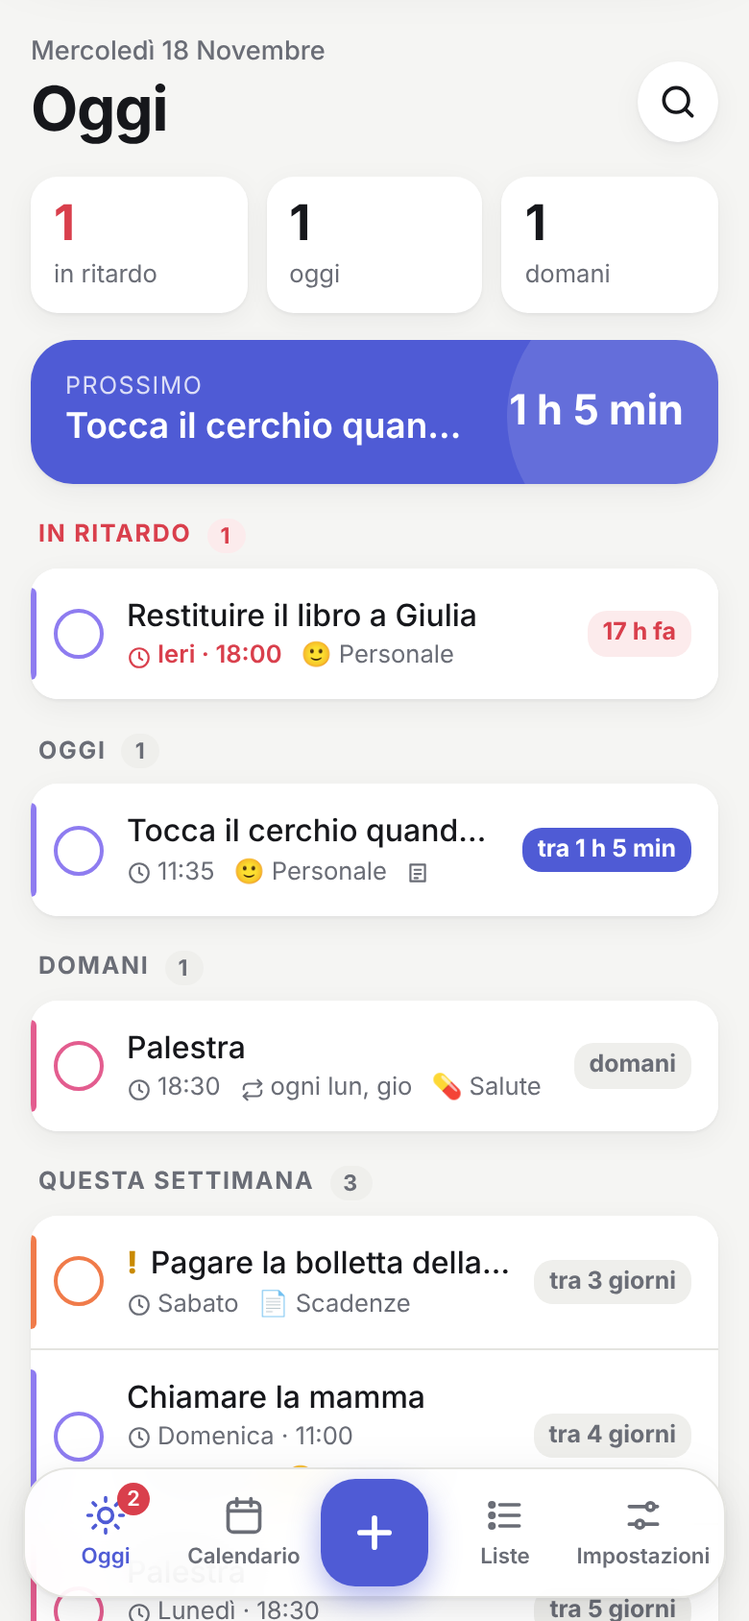
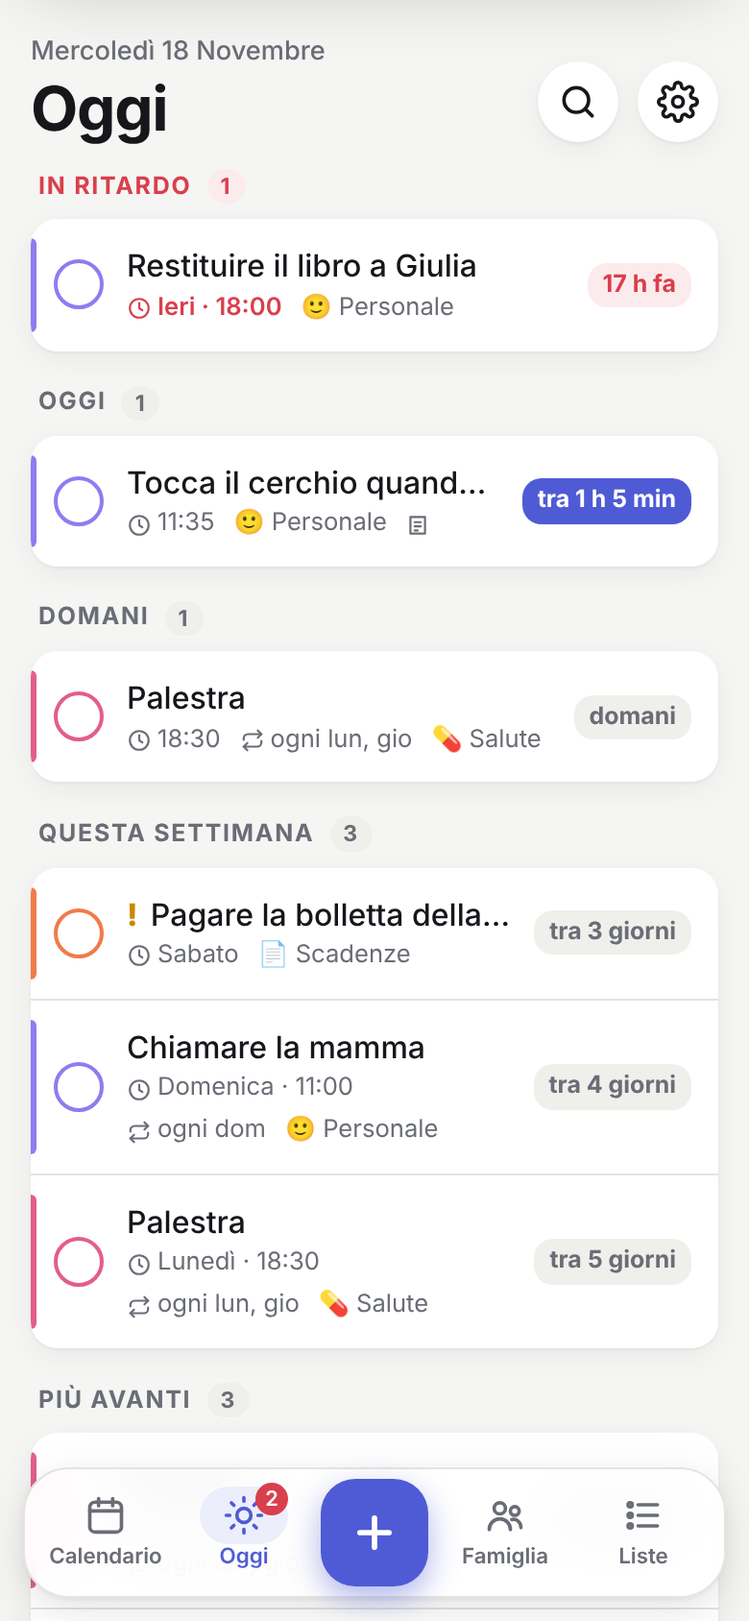
RicordaMi 0.4.0: schermate più semplici
- Oggi: solo la lista, senza contatori e riquadro Prossimo
- Nuovo promemoria: quello che ho capito in una frase (toccala per i dettagli),
  Quando e Con chi etichettati, tasto sempre in fondo alla finestra
- Con chi e Per chi in una riga sola
- Famiglia: nome del gruppo in testa, codice d'invito che si chiude,
  attività corta con Mostra tutto, la scheda si chiama sempre Famiglia
- Impostazioni con l'icona dell'ingranaggio

Claude-Session: https://claude.ai/code/session_01W491hd4LpHuBfb3EkiBoPd

diff --git a/ricordami/js/app.js b/ricordami/js/app.js
@@ -24,6 +24,7 @@ const iniziale = n => (n || '?').trim().charAt(0).toUpperCase();
 const avatar = (g, uid, cls = '') => { const m = famiglia.membro(g, uid); return `<span class="avatar ${cls}" style="background:var(--c-${m?.colore || 'lilla'})">${esc(iniziale(m?.nome))}</span>`; };
 let gruppoAperto = null; // gruppo mostrato nella scheda Famiglia
 let invitoMostrato = null; // { g, codice } ultimo codice creato
+let attivitaTutta = false; // "Attività" mostra solo le ultime finché non chiedi tutto
 
 /* ---------- utilità ---------- */
 const $ = id => document.getElementById(id);
@@ -147,7 +148,6 @@ function disegna() {
   $('btnImp').classList.toggle('nuovo', !!aggiornamento);
   const nAttesa = lista.filter(inAttesa).length;
   $('bollinoFam').hidden = !nAttesa; $('bollinoFam').textContent = nAttesa;
-  $('tabFamNome').textContent = famiglia.gruppi.length === 1 ? famiglia.gruppi[0].nome.slice(0, 12) : 'Famiglia';
   ({ 'v-oggi': vistaOggi, 'v-cal': vistaCalendario, 'v-fam': vistaFamiglia, 'v-liste': vistaListe, 'v-imp': vistaImpostazioni, 'v-cerca': vistaCerca })[vista]();
   aggiornaBollino();
 }
@@ -168,7 +168,7 @@ function riga(x, { mostraGiorno = false } = {}) {
   if (p.gruppo) {
     if (p.perChi?.length) meta.push(`<span class="pill per">per ${esc(p.perChi.map(u => nomeMembro(p.gruppo, u)).join(', '))}</span>`);
     if (!mio(p)) meta.push(`<span>da ${esc(p.autore?.nome || '?')}</span>`);
-    else if (!p.perChi?.length) meta.push(`<span>👪 ${esc(famiglia.gruppo(p.gruppo)?.nome || '')}</span>`);
+    else if (!p.perChi?.length && vista !== 'v-fam') meta.push(`<span>👪 ${esc(famiglia.gruppo(p.gruppo)?.nome || '')}</span>`); // in Famiglia si sa già
     if (p.tipo === 'domanda') {
       const r = p.risposte || [];
       if (inAttesa(p)) meta.push('<span class="pill attesa">Rispondi tu</span>');
@@ -209,14 +209,7 @@ function vistaOggi() {
   const settimana = primaPerVoce(ag.filter(x => x.occ > dom && x.occ <= piuGiorni(o, 7) && !x.fatto));
   const avanti = primaPerVoce(ag.filter(x => x.occ > piuGiorni(o, 7) && !x.fatto));
   const libere = lista.filter(p => !p.data && !p.fatto && p.tipo !== 'domanda').sort((a, b) => (b.priorita || 0) - (a.priorita || 0) || b.creato - a.creato).map(senzaData);
-  const restaOggi = dOggi.filter(x => !x.fatto);
-  const prox = ag.find(x => !x.fatto && x.scad > ora && x.scad - ora < 7 * 864e5);
-
-  let h = `${cartaAggiornamento()}<div class="riassunto">
-    <button class="stat ${ritardo.length ? 'ritardo' : 'zero'}" data-salta="g-ritardo"><b>${ritardo.length}</b><span>in ritardo</span></button>
-    <button class="stat ${restaOggi.length ? '' : 'zero'}" data-salta="g-oggi"><b>${restaOggi.length}</b><span>oggi</span></button>
-    <button class="stat ${dDomani.length ? '' : 'zero'}" data-salta="g-domani"><b>${dDomani.length}</b><span>domani</span></button></div>`;
-  if (prox) h += `<button class="prossimo" data-id="${esc(prox.p.id)}" data-occ="${prox.occ}"><div><small>Prossimo</small><strong>${esc(prox.p.titolo)}</strong></div><span class="conto-grande">${conto(prox.scad).replace('tra ', '')}</span></button>`;
+  let h = cartaAggiornamento();
   const tutto = ritardo.length + dOggi.length + dDomani.length + settimana.length + avanti.length + libere.length;
   if (!tutto) h += vuoto('Niente da ricordare', 'Tocca + e scrivi come parli: "domani alle 9 chiamare Marco".');
   h += `<div id="g-ritardo">${gruppo('In ritardo', ritardo.map(x => riga(x)), 'ritardo')}</div>`;
@@ -227,10 +220,7 @@ function vistaOggi() {
   h += gruppo('Quando capita', libere.map(x => riga(x)));
   $('v-oggi').innerHTML = h;
   collegaCartaAggiornamento();
-  $('v-oggi').querySelectorAll('[data-salta]').forEach(b => b.onclick = () => $(b.dataset.salta)?.scrollIntoView({ behavior: 'smooth', block: 'start' }));
   $('v-oggi').querySelectorAll('[data-vai]').forEach(b => b.onclick = () => vaiA(b.dataset.vai));
-  const pb = $('v-oggi').querySelector('.prossimo');
-  if (pb) pb.onclick = () => apriScheda(lista.find(p => p.id === pb.dataset.id));
 }
 
 function vistaCalendario() {
@@ -417,25 +407,31 @@ function vistaFamiglia() {
   const prossimi = primaPerVoce(agenda(delGruppo.filter(p => p.tipo !== 'domanda'), o, piuGiorni(o, 30), cfg).filter(x => !x.fatto)).slice(0, 8);
   const daFare = delGruppo.filter(p => !p.data && !p.fatto && p.tipo !== 'domanda').map(senzaData);
   const fa = t => { const m = Math.round((adesso() - t) / 60000); return m < 1 ? 'adesso' : m < 60 ? `${m} min fa` : m < 1440 ? `${Math.round(m / 60)} h fa` : giornoBreve(dataNelFuso(t, cfg.fuso)); };
-  const eventi = famiglia.eventi.filter(e => e.gruppo === g.id).slice(-15).reverse();
+  const tuttiEventi = famiglia.eventi.filter(e => e.gruppo === g.id).slice(-30).reverse();
+  const eventi = attivitaTutta ? tuttiEventi : tuttiEventi.slice(0, 4);
   el.innerHTML = `
-    ${gruppi.length > 1 ? `<div class="chips" style="margin-bottom:12px">${gruppi.map(x => `<button class="chip ${x.id === g.id ? 'sel' : ''}" data-g="${esc(x.id)}">${esc(x.nome)}</button>`).join('')}</div>` : ''}
+    ${gruppi.length > 1 ? `<div class="chips" style="margin-bottom:12px">${gruppi.map(x => `<button class="chip ${x.id === g.id ? 'sel' : ''}" data-g="${esc(x.id)}">${esc(x.nome)}</button>`).join('')}</div>` : `<p class="fam-nome">👪 ${esc(g.nome)} · ${g.membri.length === 1 ? 'solo tu, per ora' : g.membri.length + ' persone'}</p>`}
     <div class="membri-riga">${g.membri.map(m => `<div class="membro">${avatar(g.id, m.id)}<span>${esc(m.id === ioId() ? 'Tu' : m.nome)}</span></div>`).join('')}
       <button class="membro invita" id="fInvita"><span class="avatar">+</span><span>Invita</span></button></div>
-    <div id="fInvito">${invitoMostrato?.g === g.id ? `<div class="scheda-fam"><h3>Codice d'invito</h3><div class="codice-grande">${invitoMostrato.codice}</div><p style="text-align:center;margin:0">Vale 7 giorni. Chi lo riceve apre ${MARCHIO.nome} › Famiglia › Entra con un codice.</p><button class="btn primario largo" id="fCondividiInvito">Condividi</button></div>` : ''}</div>
+    <div id="fInvito">${invitoMostrato?.g === g.id ? `<div class="scheda-fam"><h3>Codice d'invito</h3><div class="codice-grande">${invitoMostrato.codice}</div><p style="text-align:center;margin:0">Vale 7 giorni. Chi lo riceve apre ${MARCHIO.nome} › Famiglia › Entra con un codice.</p><div class="riga-campi"><button class="btn" id="fChiudiInvito" style="flex:0 0 auto">Chiudi</button><button class="btn primario" id="fCondividiInvito">Condividi il codice</button></div></div>` : ''}</div>
     ${gruppo('Rispondi tu', attesa.map(p => riga(senzaData(p))), 'ritardo')}
     ${gruppo('Domande', altre.map(p => riga(senzaData(p))))}
     ${gruppo('In programma insieme', prossimi.map(x => riga(x, { mostraGiorno: true })))}
     ${gruppo('Da fare insieme', daFare.map(x => riga(x)))}
     ${!domande.length && !prossimi.length && !daFare.length ? vuoto('Ancora niente in comune', 'Tocca + e scegli "Con chi": ' + esc(g.nome) + '. Con un punto di domanda diventa una domanda.') : ''}
-    ${eventi.length ? `<div class="gruppo"><div class="gruppo-titolo">Attività</div><div class="lista-righe feed">${eventi.map(e => { const f = fraseEvento(e, ioId()); return `<div class="ev">${avatar(g.id, e.da, 'piccolo')}<div><b>${esc(f.titolo)}</b> ${esc(f.corpo)}<small>${fa(e.creato)}</small></div></div>`; }).join('')}</div></div>` : ''}
+    ${eventi.length ? `<div class="gruppo"><div class="gruppo-titolo">Attività</div><div class="lista-righe feed">${eventi.map(e => { const f = fraseEvento(e, ioId()); return `<div class="ev">${avatar(g.id, e.da, 'piccolo')}<div><b>${esc(f.titolo)}</b> ${esc(f.corpo)}<small>${fa(e.creato)}</small></div></div>`; }).join('')}</div>${tuttiEventi.length > eventi.length ? '<button class="altro-btn" id="fAttivitaTutta">Mostra tutta l\'attività</button>' : ''}</div>` : ''}
     <div class="chips" style="justify-content:center;margin-top:8px"><button class="chip" id="fAltro">+ Altra famiglia o gruppo</button><button class="chip" id="fRinomina">Rinomina</button><button class="chip" id="fEsci">Esci dal gruppo</button></div>`;
   el.querySelectorAll('[data-g]').forEach(b => b.onclick = () => { gruppoAperto = b.dataset.g; vistaFamiglia(); });
   $('fInvita').onclick = () => azioneFam(async () => {
     const { codice } = await famiglia.invita(g.id);
     invitoMostrato = { g: g.id, codice };
   });
-  if ($('fCondividiInvito')) $('fCondividiInvito').onclick = () => condividiTesto(`Entra nella famiglia "${g.nome}" su ${MARCHIO.nome} con il codice ${invitoMostrato.codice}`);
+  if ($('fCondividiInvito')) $('fCondividiInvito').onclick = async () => {
+    try { await condividiTesto(`Entra nella famiglia "${g.nome}" su ${MARCHIO.nome} con il codice ${invitoMostrato.codice}`); } catch { return; }
+    invitoMostrato = null; vistaFamiglia(); // condiviso: il codice non serve più sullo schermo
+  };
+  if ($('fChiudiInvito')) $('fChiudiInvito').onclick = () => { invitoMostrato = null; vistaFamiglia(); };
+  if ($('fAttivitaTutta')) $('fAttivitaTutta').onclick = () => { attivitaTutta = true; vistaFamiglia(); };
   $('fAltro').onclick = () => { gruppoAperto = 'nuovo'; vistaFamiglia(); };
   $('fRinomina').onclick = () => azioneFam(async () => { const n = prompt('Nuovo nome del gruppo', g.nome)?.trim(); if (n) await famiglia.rinominaGruppo(g.id, n); });
   $('fEsci').onclick = () => azioneFam(async () => { if (!confirm(`Uscire da "${g.nome}"? Non vedrai più le sue voci.`)) return; await famiglia.esci(g.id); gruppoAperto = null; toast('Sei uscito dal gruppo'); });
@@ -799,37 +795,38 @@ function aggiornaScheda() {
   const v = s.v;
   $('sSalva').disabled = !$('sTesto').value.trim();
   // cosa ho capito
+  // cosa ho capito, in una frase sola (avvisi, gruppo e tipo si vedono già nei loro campi)
   const c = [];
-  if (v.data) c.push(`<span>📅 ${giornoBreve(v.data)}</span>`);
-  if (v.ora) c.push(`<span>🕘 ${v.ora}</span>`);
+  if (v.data) c.push(`<span>📅 ${giornoBreve(v.data)}${v.ora ? ' alle ' + v.ora : ''}</span>`);
+  else if (v.ora) c.push(`<span>🕘 ${v.ora}</span>`);
   if (v.ripeti) c.push(`<span>🔁 ${descriviRipeti(v.ripeti, v.data || oggiIso())}</span>`);
-  if (v.priorita) c.push(`<span class="urg">${v.priorita === 2 ? '‼ Urgente' : '❗ Importante'}</span>`);
   if (v.lista && listaDi(v.lista)) c.push(`<span>${listaDi(v.lista).emoji} ${esc(listaDi(v.lista).nome)}</span>`);
   if (v.listaNuova) c.push(`<span>✨ nuova lista "${esc(v.listaNuova)}"</span>`);
-  if (v.data && v.avvisi.length && v.tipo !== 'domanda') c.push(`<span>🔔 ${v.avvisi.length === 1 ? (v.avvisi[0] ? durata(v.avvisi[0]) + ' prima' : 'al momento') : v.avvisi.length + ' avvisi'}</span>`);
-  if (v.data && v.insisti && v.tipo !== 'domanda') c.push(`<span>📣 insiste</span>`);
-  if (v.gruppo) c.push(`<span>👪 ${esc(famiglia.gruppo(v.gruppo)?.nome || '')}${v.perChi.length ? ' · per ' + esc(v.perChi.map(u => nomeMembro(v.gruppo, u)).join(', ')) : ''}</span>`);
-  if (v.tipo === 'domanda') c.push('<span>💬 Domanda</span>');
+  if (v.priorita) c.push(`<span class="urg">${v.priorita === 2 ? '‼ Urgente' : '❗ Importante'}</span>`);
   if (!s.id) $('sSalva').textContent = v.tipo === 'domanda' && v.gruppo ? 'Chiedi' : v.gruppo ? 'Condividi' : 'Ricordamelo';
   // condivisione
   const gruppi = famiglia.attivo ? famiglia.gruppi : [];
   $('sCondividi').hidden = !gruppi.length;
   if (gruppi.length) {
-    $('sGruppo').innerHTML = `<button class="chip ${!v.gruppo ? 'sel' : ''}" data-g="">Solo io</button>` + gruppi.map(g => `<button class="chip ${v.gruppo === g.id ? 'sel' : ''}" data-g="${esc(g.id)}">👪 ${esc(g.nome)}</button>`).join('');
-    $('sGruppo').querySelectorAll('button').forEach(b => b.onclick = () => { v.gruppo = b.dataset.g; v.perChi = []; if (!s.scelto.tipo) v.tipo = v.gruppo && $('sTesto').value.includes('?') ? 'domanda' : 'promemoria'; aggiornaScheda(); });
+    // Una riga sola: "Solo io · 👪 Casa Rossi · Bruno · Carla". Il gruppo è per tutti, una persona è "per lei".
+    $('sGruppo').innerHTML = `<button class="chip ${!v.gruppo ? 'sel' : ''}" data-g="">Solo io</button>` + gruppi.map(g =>
+      `<button class="chip ${v.gruppo === g.id && !v.perChi.length ? 'sel' : ''}" data-g="${esc(g.id)}">👪 ${esc(g.nome)}</button>` +
+      g.membri.filter(m => m.id !== ioId()).map(m => `<button class="chip persona ${v.gruppo === g.id && v.perChi.includes(m.id) ? 'sel' : ''}" data-g="${esc(g.id)}" data-u="${esc(m.id)}">${esc(m.nome)}</button>`).join('')).join('');
+    $('sGruppo').querySelectorAll('button').forEach(b => b.onclick = () => {
+      const gid = b.dataset.g, u = b.dataset.u;
+      if (!u) { v.gruppo = gid; v.perChi = []; }
+      else {
+        const set = new Set(v.gruppo === gid ? v.perChi : []);
+        set.has(u) ? set.delete(u) : set.add(u);
+        v.gruppo = gid; v.perChi = [...set];
+      }
+      if (!s.scelto.tipo) v.tipo = v.gruppo && $('sTesto').value.includes('?') ? 'domanda' : 'promemoria';
+      aggiornaScheda();
+    });
     $('sCondivisoCampi').hidden = !v.gruppo;
-    const g = famiglia.gruppo(v.gruppo);
-    if (g) {
-      $('sPerChi').innerHTML = `<button class="chip ${!v.perChi.length ? 'sel' : ''}" data-u="">Tutti</button>` + g.membri.map(m => `<button class="chip ${v.perChi.includes(m.id) ? 'sel' : ''}" data-u="${esc(m.id)}">${esc(m.id === ioId() ? 'Io' : m.nome)}</button>`).join('');
-      $('sPerChi').querySelectorAll('button').forEach(b => b.onclick = () => {
-        const u = b.dataset.u, set = new Set(v.perChi);
-        if (!u) set.clear(); else set.has(u) ? set.delete(u) : set.add(u);
-        v.perChi = set.size === g.membri.length ? [] : [...set]; aggiornaScheda();
-      });
-      $('sTipo').querySelectorAll('button').forEach(b => { b.classList.toggle('sel', b.dataset.t === v.tipo); b.onclick = () => { s.scelto.tipo = 1; v.tipo = b.dataset.t; aggiornaScheda(); }; });
-    }
+    $('sTipo').querySelectorAll('button').forEach(b => { b.classList.toggle('sel', b.dataset.t === v.tipo); b.onclick = () => { s.scelto.tipo = 1; v.tipo = b.dataset.t; aggiornaScheda(); }; });
   }
-  $('sCapito').innerHTML = c.join('') || `<span class="vuoto-capito">${$('sTesto').value ? 'Senza data: lo trovi in "Quando capita"' : 'Scrivi come parli: "domani alle 9 chiamare Marco"'}</span>`;
+  $('sCapito').innerHTML = c.length ? `<span class="capito-frase">${c.join('<i>·</i>')}</span>` : `<span class="vuoto-capito">${$('sTesto').value ? 'Senza data: lo trovi in "Quando capita"' : 'Scrivi come parli: "domani alle 9 chiamare Marco"'}</span>`;
   // scorciatoie
   const o = oggiIso(), h = new Date().getHours();
   const sab = piuGiorni(o, (6 - giornoSettimana(o) + 7) % 7 || 7);
@@ -866,6 +863,7 @@ function aggiornaScheda() {
   $('sListe').innerHTML = `<button class="chip ${!v.lista ? 'sel' : ''}" data-l="">Nessuna</button>` + liste.map(l => `<button class="chip lista ${v.lista === l.id ? 'sel' : ''}" data-l="${esc(l.id)}" style="--colore-lista:var(--c-${l.colore})">${l.emoji} ${esc(l.nome)}</button>`).join('');
   $('sListe').querySelectorAll('button').forEach(b => b.onclick = () => { s.scelto.lista = 1; v.lista = b.dataset.l; v.listaNuova = ''; aggiornaScheda(); });
 }
+$('sCapito').onclick = () => { if ($('sDettagli').hidden && $('sCapito').querySelector('.capito-frase')) $('sDettagliTog').click(); };
 $('sDettagliTog').onclick = () => { const h = !$('sDettagli').hidden; $('sDettagli').hidden = h; $('sDettagliTog').classList.toggle('aperto', !h); if (!h) aggiornaScheda(); };
 $('sData').oninput = () => { s.scelto.data = 1; s.v.data = $('sData').value; aggiornaScheda(); };
 $('sOra').oninput = () => { s.scelto.ora = 1; s.v.ora = $('sOra').value; if (s.v.ora && !s.v.data) s.v.data = oggiIso(); aggiornaScheda(); };

diff --git a/ricordami/css/app.css b/ricordami/css/app.css
@@ -97,19 +97,7 @@ main { flex: 1; overflow-y: auto; overscroll-behavior: contain; padding: 4px var
 @keyframes entra { from { opacity: 0; transform: translateY(10px); } }
 
 /* ---------- riepilogo in alto ---------- */
-.riassunto { display: grid; grid-template-columns: repeat(3, 1fr); gap: 10px; margin: 4px 0 14px; }
-.stat { background: var(--superficie); border-radius: var(--raggio); padding: 12px 12px 10px; box-shadow: var(--ombra); border: 0; text-align: left; }
-.stat b { display: block; font-family: var(--font-titoli); font-size: 1.6rem; font-weight: var(--peso-titolo); line-height: 1; }
-.stat span { font-size: .8rem; color: var(--tenue); }
-.stat.ritardo b { color: var(--ritardo); }
-.stat.zero b { color: var(--tenue); opacity: .5; }
 
-.prossimo { position: relative; overflow: hidden; display: flex; align-items: center; gap: 14px; background: var(--accento); color: var(--accento-testo); border-radius: var(--raggio-grande); padding: 16px 18px; margin-bottom: 18px; box-shadow: var(--ombra); border: 0; width: 100%; text-align: left; }
-.prossimo::after { content: ""; position: absolute; right: -30px; top: -30px; width: 140px; height: 140px; border-radius: 50%; background: rgba(255, 255, 255, .12); }
-.prossimo small { display: block; opacity: .8; font-size: .78rem; text-transform: uppercase; letter-spacing: .06em; }
-.prossimo strong { display: block; font-family: var(--font-titoli); font-size: 1.15rem; font-weight: 600; white-space: nowrap; overflow: hidden; text-overflow: ellipsis; }
-.prossimo .conto-grande { margin-left: auto; font-family: var(--font-titoli); font-weight: 700; font-size: 1.35rem; white-space: nowrap; z-index: 1; }
-.prossimo > div { min-width: 0; z-index: 1; }
 
 /* ---------- gruppi e righe ---------- */
 .gruppo { margin-bottom: 18px; }
@@ -271,11 +259,17 @@ main { flex: 1; overflow-y: auto; overscroll-behavior: contain; padding: 4px var
 :root[data-tema="allegro"] .foglio h2 { font-family: var(--font-mano); font-size: 2rem; font-weight: 700; }
 .testo-grande { width: 100%; border: 0; outline: none; resize: none; background: transparent; font-size: 1.3rem; font-weight: 550; line-height: 1.3; padding: 4px 0; min-height: 40px; }
 :root[data-tema="allegro"] .testo-grande { font-family: var(--font-mano); font-size: 1.8rem; font-weight: 700; }
-.capito { display: flex; flex-wrap: wrap; gap: 6px; min-height: 30px; margin: 6px 0 10px; }
-.capito span { display: inline-flex; align-items: center; gap: 4px; background: var(--accento-tenue); color: var(--accento); border-radius: 10px; padding: 4px 9px; font-size: .84rem; font-weight: 600; animation: spunta-chip .3s var(--molla); }
-.capito span.urg { background: var(--ritardo-tenue); color: var(--ritardo); }
-.capito .vuoto-capito { background: none; color: var(--tenue); font-weight: 400; padding-left: 0; animation: none; }
-@keyframes spunta-chip { from { transform: scale(.6); opacity: 0; } }
+.capito { min-height: 24px; margin: 2px 0 4px; font-size: .92rem; line-height: 1.5; cursor: pointer; }
+/* "Ho capito" è una frase, non una fila di bottoni: toccandola si aprono i dettagli */
+.capito-frase { color: var(--accento); font-weight: 600; }
+.capito-frase i { font-style: normal; color: var(--tenue); margin: 0 6px; font-weight: 400; }
+.capito-frase .urg { color: var(--ritardo); }
+.capito .vuoto-capito { color: var(--tenue); }
+.campo-stretto { margin-top: 10px; }
+.campo-stretto > .etichetta { margin-bottom: 5px; }
+.chip.persona { border-style: dashed; }
+.chip.persona.sel { border-style: solid; }
+.fam-nome { margin: -4px 2px 10px; color: var(--tenue); font-size: .9rem; }
 .campo { margin-top: 14px; }
 .campo > label, .campo > .etichetta { display: block; font-size: .78rem; font-weight: 650; color: var(--tenue); margin: 0 2px 7px; text-transform: uppercase; letter-spacing: .05em; }
 .riga-campi { display: flex; gap: 8px; }
@@ -286,7 +280,9 @@ textarea.inserto { resize: vertical; min-height: 70px; }
 .dettagli-tog { border: 0; background: none; color: var(--accento); font-weight: 600; padding: 6px 0; display: flex; align-items: center; gap: 4px; }
 .dettagli-tog svg { transition: transform .25s; width: 18px; height: 18px; }
 .dettagli-tog.aperto svg { transform: rotate(180deg); }
-.azioni-foglio { display: flex; gap: 10px; margin-top: 18px; position: sticky; bottom: 0; background: var(--superficie); padding-top: 8px; }
+.foglio { --fondo-foglio: calc(18px + var(--inset-basso)); }
+/* Il tasto resta in fondo alla finestra e copre anche il margine sotto, così i campi non spuntano da sotto */
+.azioni-foglio { display: flex; gap: 10px; margin-top: 18px; position: sticky; bottom: calc(-1 * var(--fondo-foglio)); margin-bottom: calc(-1 * var(--fondo-foglio)); padding: 10px 0 var(--fondo-foglio); background: var(--superficie); z-index: 2; }
 .btn { border: 0; border-radius: 14px; padding: 14px 16px; font-weight: 650; font-size: 1rem; background: var(--superficie-2); transition: transform .15s var(--molla), opacity .2s; }
 .btn:active { transform: scale(.97); }
 .btn.primario { flex: 1; background: var(--accento); color: var(--accento-testo); }
@@ -357,7 +353,6 @@ textarea.inserto { resize: vertical; min-height: 70px; }
   .testa, .cerca { width: 100%; max-width: 792px; margin: 0 auto; }
   .testa { padding-top: 28px; }
   .testa h1 { font-size: 2.3rem; }
-  .riassunto { gap: 14px; }
   main { padding-bottom: 40px; }
   .foglio { left: 50%; right: auto; bottom: 50%; width: 520px; border-radius: var(--raggio-grande); transform: translate(-50%, 60%) scale(.96); opacity: 0; transition: transform .35s var(--molla), opacity .2s; }
   .foglio.on { transform: translate(-50%, 50%); opacity: 1; }
@@ -398,7 +393,7 @@ textarea.inserto { resize: vertical; min-height: 70px; }
   will-change: transform, opacity; contain: layout paint;
 }
 .foglio.finestra .maniglia { display: none; }
-.foglio.finestra .azioni-foglio { padding-bottom: 2px; }
+.foglio.finestra { --fondo-foglio: 14px; padding-bottom: 14px; }
 @media (min-width: 900px) { .foglio.finestra { top: 12vh; translate: -50% 0; transform: none; opacity: 1; } }
 /* Con la finestra aperta il + (ora ×) resta toccabile sopra il velo per richiuderla */
 .barra.sopra { z-index: 12; }
@@ -453,4 +448,3 @@ input.codice { font-size: 1.3rem; letter-spacing: .2em; text-transform: uppercas
 #nCorpo h3 { font-size: .95rem; margin: 14px 0 0; color: var(--tenue); font-weight: 600; }
 #btnImp { position: relative; }
 #btnImp.nuovo::after { content: ""; position: absolute; top: 6px; right: 6px; width: 10px; height: 10px; border-radius: 50%; background: var(--ritardo); border: 2px solid var(--superficie); }
-.foglio.finestra { padding-bottom: 14px; } /* la finestra non tocca la barra di Android: niente margine extra */

diff --git a/ricordami/index.html b/ricordami/index.html
@@ -26,7 +26,7 @@
   <symbol id="i-oggi" viewBox="0 0 24 24"><circle cx="12" cy="12" r="4"/><path d="M12 2v2M12 20v2M4.9 4.9l1.4 1.4M17.7 17.7l1.4 1.4M2 12h2M20 12h2M4.9 19.1l1.4-1.4M17.7 6.3l1.4-1.4"/></symbol>
   <symbol id="i-cal" viewBox="0 0 24 24"><rect x="3" y="4.5" width="18" height="17" rx="3"/><path d="M3 9.5h18M8 2.5v4M16 2.5v4"/></symbol>
   <symbol id="i-liste" viewBox="0 0 24 24"><path d="M9 6h11M9 12h11M9 18h11"/><circle cx="4.5" cy="6" r="1.2"/><circle cx="4.5" cy="12" r="1.2"/><circle cx="4.5" cy="18" r="1.2"/></symbol>
-  <symbol id="i-imp" viewBox="0 0 24 24"><path d="M4 7h10M18 7h2M4 17h4M12 17h8"/><circle cx="16" cy="7" r="2.2"/><circle cx="10" cy="17" r="2.2"/></symbol>
+  <symbol id="i-imp" viewBox="0 0 24 24"><circle cx="12" cy="12" r="3"/><path d="M19.4 15a1.7 1.7 0 0 0 .3 1.8l.1.1a2 2 0 1 1-2.8 2.8l-.1-.1a1.7 1.7 0 0 0-1.8-.3 1.7 1.7 0 0 0-1 1.5V21a2 2 0 1 1-4 0v-.1a1.7 1.7 0 0 0-1.1-1.5 1.7 1.7 0 0 0-1.8.3l-.1.1a2 2 0 1 1-2.8-2.8l.1-.1a1.7 1.7 0 0 0 .3-1.8 1.7 1.7 0 0 0-1.5-1H3a2 2 0 1 1 0-4h.1a1.7 1.7 0 0 0 1.5-1.1 1.7 1.7 0 0 0-.3-1.8l-.1-.1a2 2 0 1 1 2.8-2.8l.1.1a1.7 1.7 0 0 0 1.8.3H9a1.7 1.7 0 0 0 1-1.5V3a2 2 0 1 1 4 0v.1a1.7 1.7 0 0 0 1 1.5 1.7 1.7 0 0 0 1.8-.3l.1-.1a2 2 0 1 1 2.8 2.8l-.1.1a1.7 1.7 0 0 0-.3 1.8V9a1.7 1.7 0 0 0 1.5 1H21a2 2 0 1 1 0 4h-.1a1.7 1.7 0 0 0-1.5 1z"/></symbol>
   <symbol id="i-fam" viewBox="0 0 24 24"><circle cx="9" cy="8" r="3.2"/><path d="M3 20c0-3.3 2.7-6 6-6s6 2.7 6 6"/><circle cx="17.5" cy="9.5" r="2.5"/><path d="M15.8 14.4c2.9-.6 5.2 1.6 5.2 4.6"/></symbol>
   <symbol id="i-invia" viewBox="0 0 24 24"><path d="M4 12 20 4l-4 16-4-6.5z"/><path d="m12 13.5 8-9.5"/></symbol>
   <symbol id="i-piu" viewBox="0 0 24 24"><path d="M12 5v14M5 12h14"/></symbol>
@@ -64,7 +64,7 @@
     <button class="tab attiva" data-v="v-cal"><svg class="i"><use href="#i-cal"/></svg>Calendario</button>
     <button class="tab" data-v="v-oggi"><svg class="i"><use href="#i-oggi"/></svg>Oggi<span class="bollino-tab" id="bollinoOggi" hidden></span></button>
     <button class="piu" id="btnNuovo" aria-label="Nuovo promemoria"><svg class="i"><use href="#i-piu"/></svg></button>
-    <button class="tab" data-v="v-fam"><svg class="i"><use href="#i-fam"/></svg><span id="tabFamNome">Famiglia</span><span class="bollino-tab" id="bollinoFam" hidden></span></button>
+    <button class="tab" data-v="v-fam"><svg class="i"><use href="#i-fam"/></svg>Famiglia<span class="bollino-tab" id="bollinoFam" hidden></span></button>
     <button class="tab" data-v="v-liste"><svg class="i"><use href="#i-liste"/></svg>Liste</button>
   </nav>
 </div>
@@ -77,12 +77,11 @@
   <h2 id="sIntestazione">Nuovo promemoria</h2>
   <textarea class="testo-grande" id="sTesto" rows="1" maxlength="300" placeholder="Cosa devo ricordarti?"></textarea>
   <div class="capito" id="sCapito"></div>
-  <div class="chips" id="sRapidi"></div>
+  <div class="campo campo-stretto"><span class="etichetta">Quando</span><div class="chips" id="sRapidi"></div></div>
   <div id="sCondividi" hidden>
-    <div class="campo"><span class="etichetta">Con chi</span><div class="chips" id="sGruppo"></div></div>
+    <div class="campo campo-stretto"><span class="etichetta">Con chi</span><div class="chips" id="sGruppo"></div></div>
     <div id="sCondivisoCampi" hidden>
-      <div class="campo"><span class="etichetta">Per chi</span><div class="chips" id="sPerChi"></div></div>
-      <div class="campo"><div class="segmenti" id="sTipo"><button data-t="promemoria">📌 Promemoria</button><button data-t="domanda">💬 Domanda</button></div></div>
+      <div class="campo campo-stretto"><div class="segmenti" id="sTipo"><button data-t="promemoria">📌 Promemoria</button><button data-t="domanda">💬 Domanda</button></div></div>
     </div>
   </div>
   <button class="dettagli-tog" id="sDettagliTog">Dettagli <svg class="i"><use href="#i-giu"/></svg></button>

diff --git a/ricordami/js/novita.js b/ricordami/js/novita.js
@@ -2,6 +2,7 @@
 // La leggono l'app (marchio.js), l'APK (android/app/build.gradle) e GitHub (note della release).
 // Per una nuova versione: aggiungi una voce IN CIMA con codice +1.
 export const NOVITA = [
+  { versione: '0.4.0', codice: 6, data: '2026-11-27', cose: ['Oggi è più pulito: solo la lista, senza contatori e riquadri doppi', 'Nuovo promemoria più semplice: quello che ho capito in una frase, i campi in ordine, il tasto sempre in fondo', '"Con chi" in una riga sola: tocca una persona e il promemoria (o la domanda) è per lei', 'Famiglia più ordinata: il codice d\'invito si chiude dopo averlo condiviso, l\'attività è più corta', 'Impostazioni con l\'icona dell\'ingranaggio'] },
   {
     versione: '0.3.1', codice: 5, data: '2026-11-19',
     cose: [
